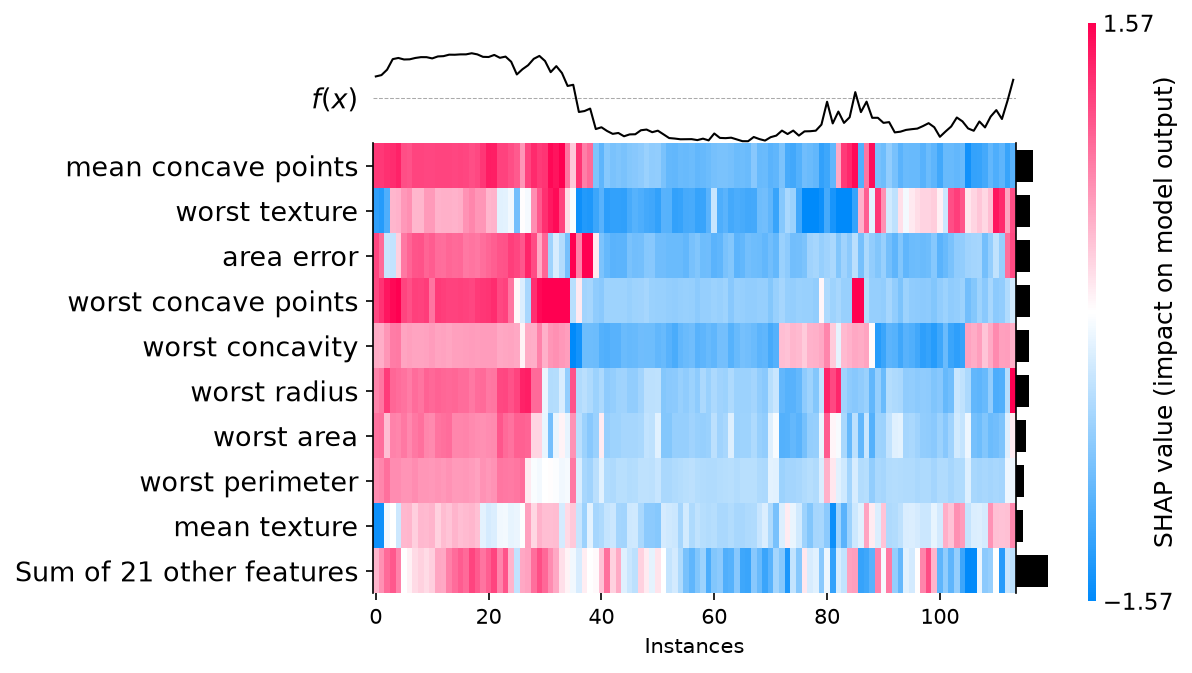
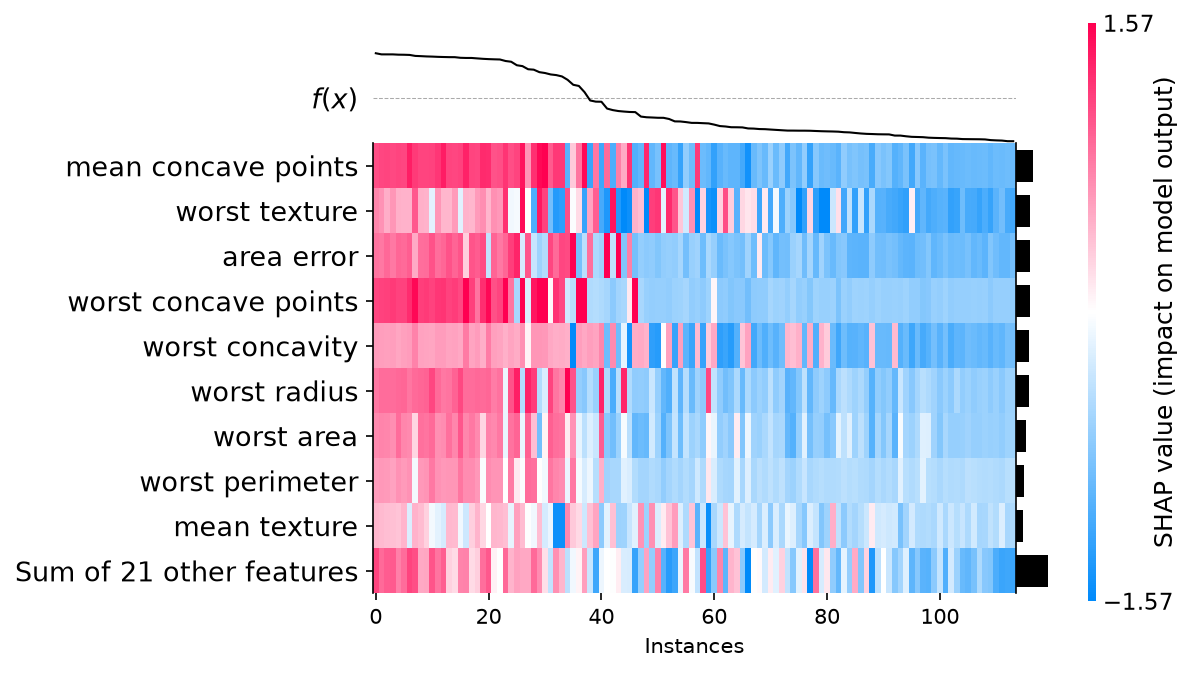
refactor: update plot heatmap

Changed region(s): [[0.3104, 0.1248, 0.8691, 0.9049], [0.3104, 0.0624, 0.4346, 0.0936], [0.4346, 0.0936, 0.4966, 0.156]]

diff --git a/4-model-explainability-with-shap-and-monotonic-constraints/README.md b/4-model-explainability-with-shap-and-monotonic-constraints/README.md
@@ -131,14 +131,9 @@ shap.plots.heatmap(shap_values)
 
 ![Heatmap plot](img/heatmap.png)
 
-Two clear blocks emerge: a left block where `mean concave points`, `area error`, `worst concave
-points`, `worst radius`, and friends are all firmly red (pushing malignant) and `f(x)` sits high, and
-a much wider right block where the same features are blue and `f(x)` sits low, the model learning one
-dominant, coherent axis of risk. `worst texture`'s row is visibly messier than its neighbours even
-within those blocks, which is the heatmap surfacing the same observation as the beeswarm plot, from a
-different angle. A heatmap with several distinct, unexplained blocks (rather than one dominant
-pattern) is often a sign the model is doing something different for a subgroup you haven't identified
-yet, worth checking before shipping a model.
+instance_order allows you to order from the highest to lowest predictions.
+
+It helps understand how the features are distributed from the highest to the lowest predictions. The colors help a lot understanding how higher values (red) of certain features really contribute to higher predictions.
 
 ### 2c. Debugging one feature at a time: the dependence plot
 
@@ -221,7 +216,7 @@ the more complete one.
 
 ---
 
-## 5. When you already know the direction: monotonic constraints TODO
+## 5. When you already know the direction: monotonic constraints 
 
 After playing around with shap a little bit some edge cases came out, and it was observed how confusing is having a model that interprets growing risk relationships with some ups and down. Everything above *explains* a model trained the ordinary way. This section changes how it's trained.
 
